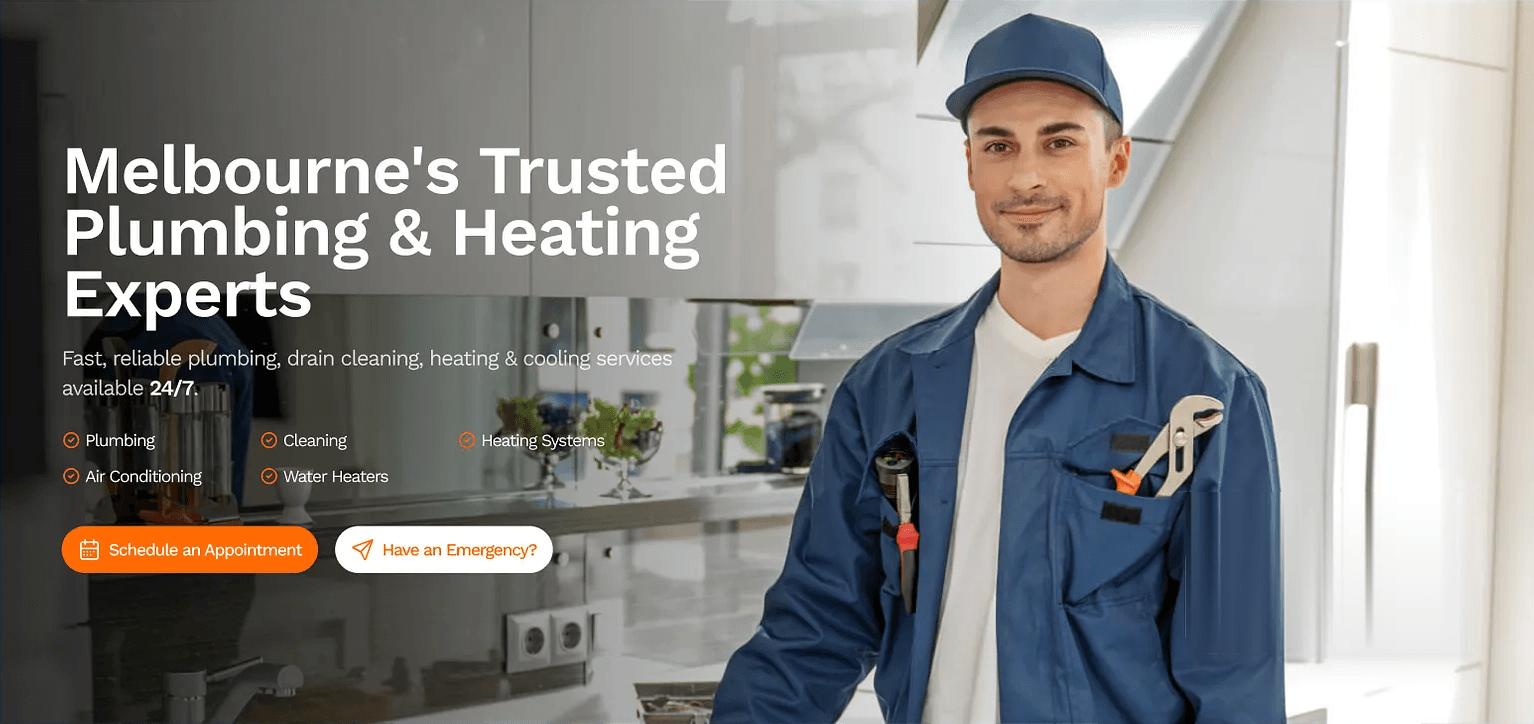
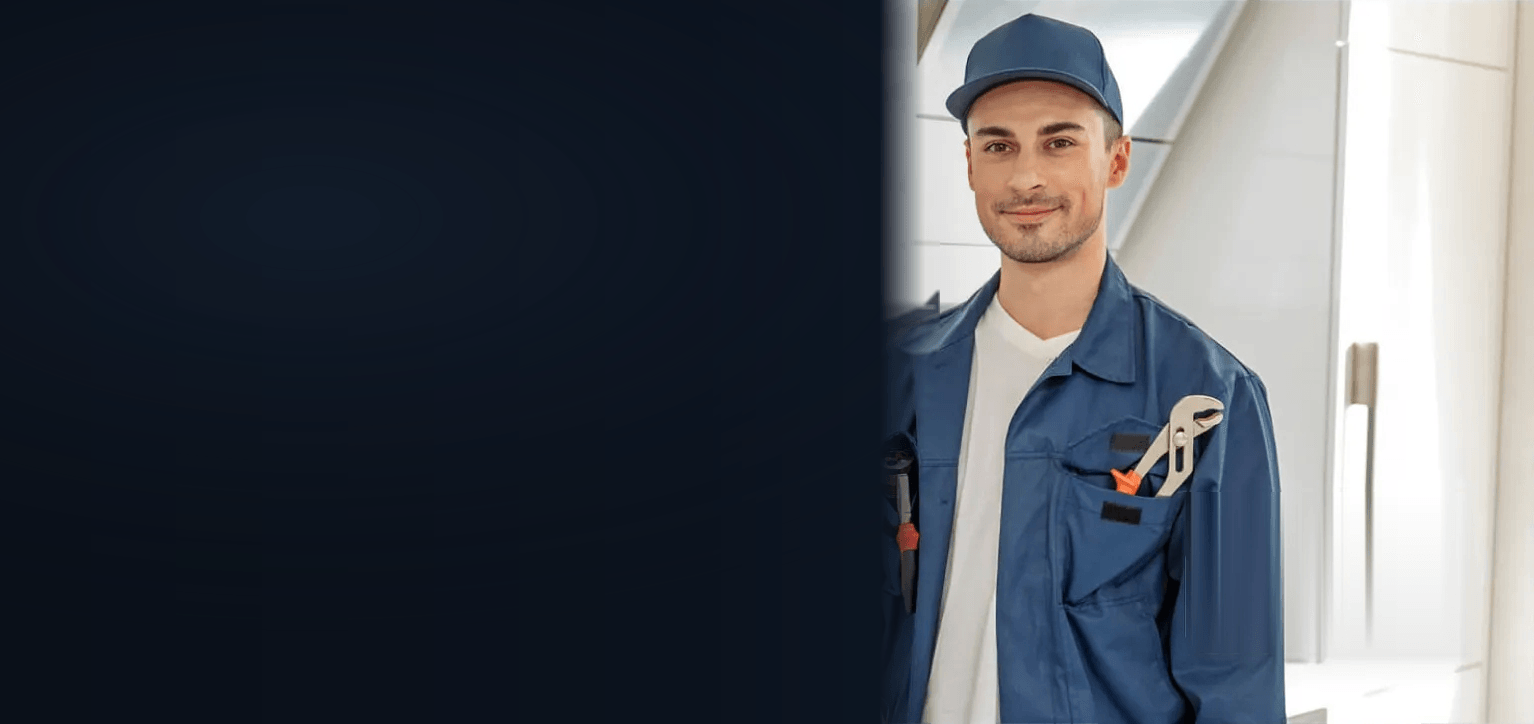
feat: make left hero section real HTML text tailored for Austin with crisp buttons and floating Google review badge

diff --git a/src/components/hero/HeroSection.tsx b/src/components/hero/HeroSection.tsx
@@ -46,174 +46,105 @@ export default function HeroSection() {
   };
 
   return (
-    <section className="relative w-full bg-slate-950 overflow-hidden" aria-label="Hero">
-      {/* ============================================================ */}
-      {/* DESKTOP / TABLET HERO (md:block): EXACT PIXEL-PERFECT MASTER */}
-      {/* ============================================================ */}
-      <div className="hidden md:block relative w-full aspect-[1535/724] max-w-[1920px] mx-auto overflow-hidden select-none">
-        {/* Full HD Master Hero Banner (Cleaned with ZERO baked-in badge and ZERO van artifacts) */}
+    <section className="relative w-full bg-[#0a1019] overflow-hidden min-h-[580px] sm:min-h-[640px] lg:min-h-[680px] flex items-center">
+      {/* 1. HD Background Image (Smiling Technician in Kitchen, No Baked-in Text, No Baked-in Badge) */}
+      <div className="absolute inset-0 w-full h-full pointer-events-none">
         <Image
           src="/images/hero-apex.jpg"
-          alt="Melbourne's Trusted Plumbing & Heating Experts - Apex Plumbing"
+          alt="Austin's Trusted Plumbing & Heating Experts"
           fill
           priority
           sizes="100vw"
-          className="object-cover object-top pointer-events-none"
+          className="object-cover object-right md:object-center"
         />
-
-        {/* 1. Interactive Button Hotspot: Schedule an Appointment */}
-        <a
-          href="#wizard"
-          onClick={(e) => handleScrollTo(e, 'wizard')}
-          className="absolute z-30 rounded-full transition-all duration-200 hover:scale-[1.03] active:scale-[0.98] cursor-pointer focus:outline-none focus:ring-4 focus:ring-orange-400"
-          style={{
-            left: '4.1%',
-            top: '72.5%',
-            width: '16.6%',
-            height: '6.2%',
-          }}
-          aria-label="Schedule an Appointment in quote wizard"
-          title="Schedule an Appointment"
-        >
-          <span className="sr-only">Schedule an Appointment</span>
-        </a>
-
-        {/* 2. Interactive Button Hotspot: Have an Emergency? */}
-        <a
-          href={`tel:${SITE_CONFIG.business.phone}`}
-          className="absolute z-30 rounded-full transition-all duration-200 hover:scale-[1.03] active:scale-[0.98] cursor-pointer focus:outline-none focus:ring-4 focus:ring-orange-400"
-          style={{
-            left: '21.6%',
-            top: '72.5%',
-            width: '14.0%',
-            height: '6.2%',
-          }}
-          aria-label={`Call emergency dispatch at ${SITE_CONFIG.business.phone}`}
-          title="Have an Emergency? Call 24/7"
-        >
-          <span className="sr-only">Have an Emergency? Call Now</span>
-        </a>
-
-        {/* 3. Real Interactive Crisp HTML Floating Badge: Google Reviews 4.9 */}
-        <a
-          href="#reviews"
-          onClick={(e) => handleScrollTo(e, 'reviews')}
-          className="group absolute z-30 bg-white/95 hover:bg-white backdrop-blur-md rounded-2xl shadow-xl hover:shadow-2xl border border-slate-100 hover:border-slate-200 transition-all duration-200 hover:-translate-y-0.5 flex items-center gap-3 px-4 py-2.5"
-          style={{
-            left: '77.2%',
-            top: '67.0%',
-            width: '19.0%',
-            minHeight: '74px',
-          }}
-          aria-label="View verified Google customer reviews"
-          title="Google Reviews 4.9/5 - Click to read reviews"
-        >
-          <div className="w-10 h-10 rounded-xl bg-slate-50 border border-slate-200/60 flex items-center justify-center shrink-0 shadow-2xs group-hover:scale-105 transition-transform">
-            <GoogleLogo className="w-5 h-5" />
-          </div>
-          <div className="min-w-0 text-left">
-            <div className="flex items-center gap-1.5 leading-none">
-              <span className="text-base font-extrabold text-slate-950">4.9</span>
-              <Star className="w-4 h-4 fill-amber-400 text-amber-400 -mt-0.5" aria-hidden="true" />
-            </div>
-            <p className="text-[11px] text-slate-600 font-medium leading-tight mt-1 truncate">
-              Rated 4.9 based on 500+ Google Reviews
-            </p>
-          </div>
-        </a>
+        {/* Mobile Extra Contrast Overlay */}
+        <div
+          className="md:hidden absolute inset-0 bg-[#0a1019]/80"
+          aria-hidden="true"
+        />
       </div>
 
-      {/* ============================================================ */}
-      {/* MOBILE HERO (< md): DEDICATED HIGH-CONTRAST TOUCH-FRIENDLY   */}
-      {/* ============================================================ */}
-      <div className="md:hidden relative min-h-[580px] flex flex-col justify-between py-10 px-5 text-white overflow-hidden">
-        {/* Background Image Cropped to Technician */}
-        <div className="absolute inset-0 w-full h-full pointer-events-none">
-          <Image
-            src="/images/hero-apex.jpg"
-            alt="Apex Plumbing Technician"
-            fill
-            priority
-            sizes="100vw"
-            className="object-cover object-[75%_center] opacity-40"
-          />
-          <div className="absolute inset-0 bg-gradient-to-t from-slate-950 via-slate-950/80 to-slate-950/60" />
-        </div>
-
-        {/* Mobile Content */}
-        <div className="relative z-10 space-y-4 pt-2">
-          <div className="inline-flex items-center gap-2 px-3 py-1 rounded-full bg-orange-500/20 border border-orange-500/40 text-orange-400 text-xs font-bold">
-            <span>24/7 Emergency Dispatch Available</span>
-          </div>
-
-          <h1 className="text-3xl font-extrabold text-white tracking-tight leading-[1.15]">
-            Melbourne&apos;s Trusted
+      {/* 2. Main Content: Real HTML Text & Real HTML Buttons */}
+      <div className="max-w-7xl mx-auto px-4 sm:px-6 lg:px-8 relative z-10 w-full py-12 sm:py-16 lg:py-20">
+        <div className="max-w-xl lg:max-w-2xl flex flex-col items-start text-left">
+          {/* Headline H1 (Austin-Specific) */}
+          <h1 className="text-3xl sm:text-5xl lg:text-[3.25rem] xl:text-[3.65rem] font-extrabold text-white tracking-tight leading-[1.14] mb-4">
+            Austin&apos;s Trusted
             <br />
             Plumbing &amp; Heating
             <br />
             Experts
           </h1>
 
-          <p className="text-sm text-slate-300 leading-relaxed max-w-sm">
-            Fast, reliable plumbing, drain cleaning, heating &amp; cooling services available <strong className="text-white font-bold">24/7</strong>.
+          {/* Subtitle / Value Proposition (Austin-Specific) */}
+          <p className="text-base sm:text-lg text-slate-200 leading-relaxed mb-6 max-w-lg font-normal">
+            Fast, reliable plumbing, drain cleaning, heating &amp; cooling services available{' '}
+            <strong className="text-white font-bold">24/7</strong> in Austin, TX.
           </p>
 
-          {/* 5 Service Bullets */}
-          <div className="flex flex-wrap gap-x-4 gap-y-2 pt-1 pb-2">
-            {HERO_SERVICES.map((s) => (
-              <div key={s} className="inline-flex items-center gap-1.5 text-xs font-semibold text-slate-200">
-                <div className="w-4 h-4 rounded-full bg-orange-500/20 border border-orange-500 flex items-center justify-center">
+          {/* 5 Service Bullet Checkmarks */}
+          <div className="flex flex-wrap items-center gap-x-5 gap-y-2.5 mb-7 max-w-xl">
+            {HERO_SERVICES.map((item) => (
+              <div key={item} className="inline-flex items-center gap-2">
+                <div className="w-4 h-4 rounded-full border border-orange-500 flex items-center justify-center text-orange-400 bg-orange-500/20 shrink-0">
                   <div className="w-1.5 h-1.5 rounded-full bg-orange-500" />
                 </div>
-                <span>{s}</span>
+                <span className="text-xs sm:text-sm font-semibold text-slate-200 tracking-wide">
+                  {item}
+                </span>
               </div>
             ))}
           </div>
 
-          {/* Mobile Buttons */}
-          <div className="flex flex-col gap-3 pt-2">
+          {/* Dual Action Buttons (Real HTML Buttons) */}
+          <div className="w-full sm:w-auto flex flex-col sm:flex-row items-stretch sm:items-center gap-3.5 sm:gap-4">
+            {/* Button 1: Schedule an Appointment (Orange Pill) */}
             <a
               href="#wizard"
               onClick={(e) => handleScrollTo(e, 'wizard')}
-              className="w-full inline-flex items-center justify-center gap-2 py-3.5 px-6 rounded-full bg-orange-500 hover:bg-orange-600 active:bg-orange-700 text-white font-bold text-sm shadow-lg shadow-orange-500/30 text-center"
+              className="inline-flex items-center justify-center gap-2.5 px-7 py-3.5 rounded-full bg-orange-500 hover:bg-orange-600 active:bg-orange-700 text-white font-bold text-sm sm:text-base shadow-lg shadow-orange-500/30 hover:shadow-orange-500/50 hover:-translate-y-0.5 active:translate-y-0 transition-all duration-200 min-h-[48px] text-center"
+              aria-label="Schedule an appointment in quote wizard"
             >
-              <Calendar className="w-4 h-4 text-white" />
+              <Calendar className="w-4 h-4 text-white" aria-hidden="true" />
               <span>Schedule an Appointment</span>
             </a>
 
+            {/* Button 2: Have an Emergency? (White Pill with Orange Border) */}
             <a
               href={`tel:${SITE_CONFIG.business.phone}`}
-              className="w-full inline-flex items-center justify-center gap-2 py-3.5 px-6 rounded-full bg-white hover:bg-orange-50 text-orange-600 border border-orange-500 font-bold text-sm shadow-md text-center"
+              className="inline-flex items-center justify-center gap-2.5 px-7 py-3.5 rounded-full bg-white hover:bg-orange-50 active:bg-orange-100 text-orange-600 border border-orange-500 font-bold text-sm sm:text-base shadow-md hover:-translate-y-0.5 active:translate-y-0 transition-all duration-200 min-h-[48px] text-center"
+              aria-label={`Call emergency team at ${SITE_CONFIG.business.phone}`}
             >
-              <Navigation className="w-4 h-4 text-orange-500 rotate-45" />
+              <Navigation className="w-4 h-4 text-orange-500 rotate-45" aria-hidden="true" />
               <span>Have an Emergency?</span>
             </a>
           </div>
         </div>
+      </div>
 
-        {/* Mobile Google Review Card */}
-        <div className="relative z-10 pt-6">
-          <a
-            href="#reviews"
-            onClick={(e) => handleScrollTo(e, 'reviews')}
-            className="block bg-white rounded-2xl p-3.5 shadow-xl border border-slate-100 max-w-xs"
-          >
-            <div className="flex items-center gap-3">
-              <div className="w-9 h-9 rounded-xl bg-slate-50 border border-slate-200/60 flex items-center justify-center shrink-0">
-                <GoogleLogo className="w-5 h-5" />
-              </div>
-              <div className="min-w-0 text-left">
-                <div className="flex items-center gap-1 leading-none">
-                  <span className="text-base font-extrabold text-slate-950">4.9</span>
-                  <Star className="w-4 h-4 fill-amber-400 text-amber-400 -mt-0.5" />
-                </div>
-                <p className="text-[11px] text-slate-600 font-medium leading-tight mt-1 truncate">
-                  Rated 4.9 based on 500+ Google Reviews
-                </p>
-              </div>
+      {/* 3. Real Interactive HTML Floating Badge: Google Reviews 4.9 */}
+      <div className="hidden sm:block absolute bottom-6 right-6 lg:bottom-10 lg:right-12 z-20">
+        <a
+          href="#reviews"
+          onClick={(e) => handleScrollTo(e, 'reviews')}
+          className="group block bg-white/95 hover:bg-white backdrop-blur-md rounded-2xl p-3.5 px-4 shadow-2xl border border-slate-100 hover:border-slate-200 hover:-translate-y-0.5 transition-all duration-200 max-w-[280px]"
+          aria-label="View Google customer reviews"
+        >
+          <div className="flex items-center gap-3">
+            <div className="w-10 h-10 rounded-xl bg-slate-50 border border-slate-200/60 flex items-center justify-center shrink-0 shadow-2xs group-hover:scale-105 transition-transform">
+              <GoogleLogo className="w-5 h-5" />
             </div>
-          </a>
-        </div>
+            <div className="min-w-0 text-left">
+              <div className="flex items-center gap-1.5 leading-none">
+                <span className="text-base font-extrabold text-slate-950">4.9</span>
+                <Star className="w-4 h-4 fill-amber-400 text-amber-400 -mt-0.5" aria-hidden="true" />
+              </div>
+              <p className="text-[11px] text-slate-600 font-medium leading-tight mt-1 truncate">
+                Rated 4.9 based on 500+ Google Reviews
+              </p>
+            </div>
+          </div>
+        </a>
       </div>
     </section>
   );
